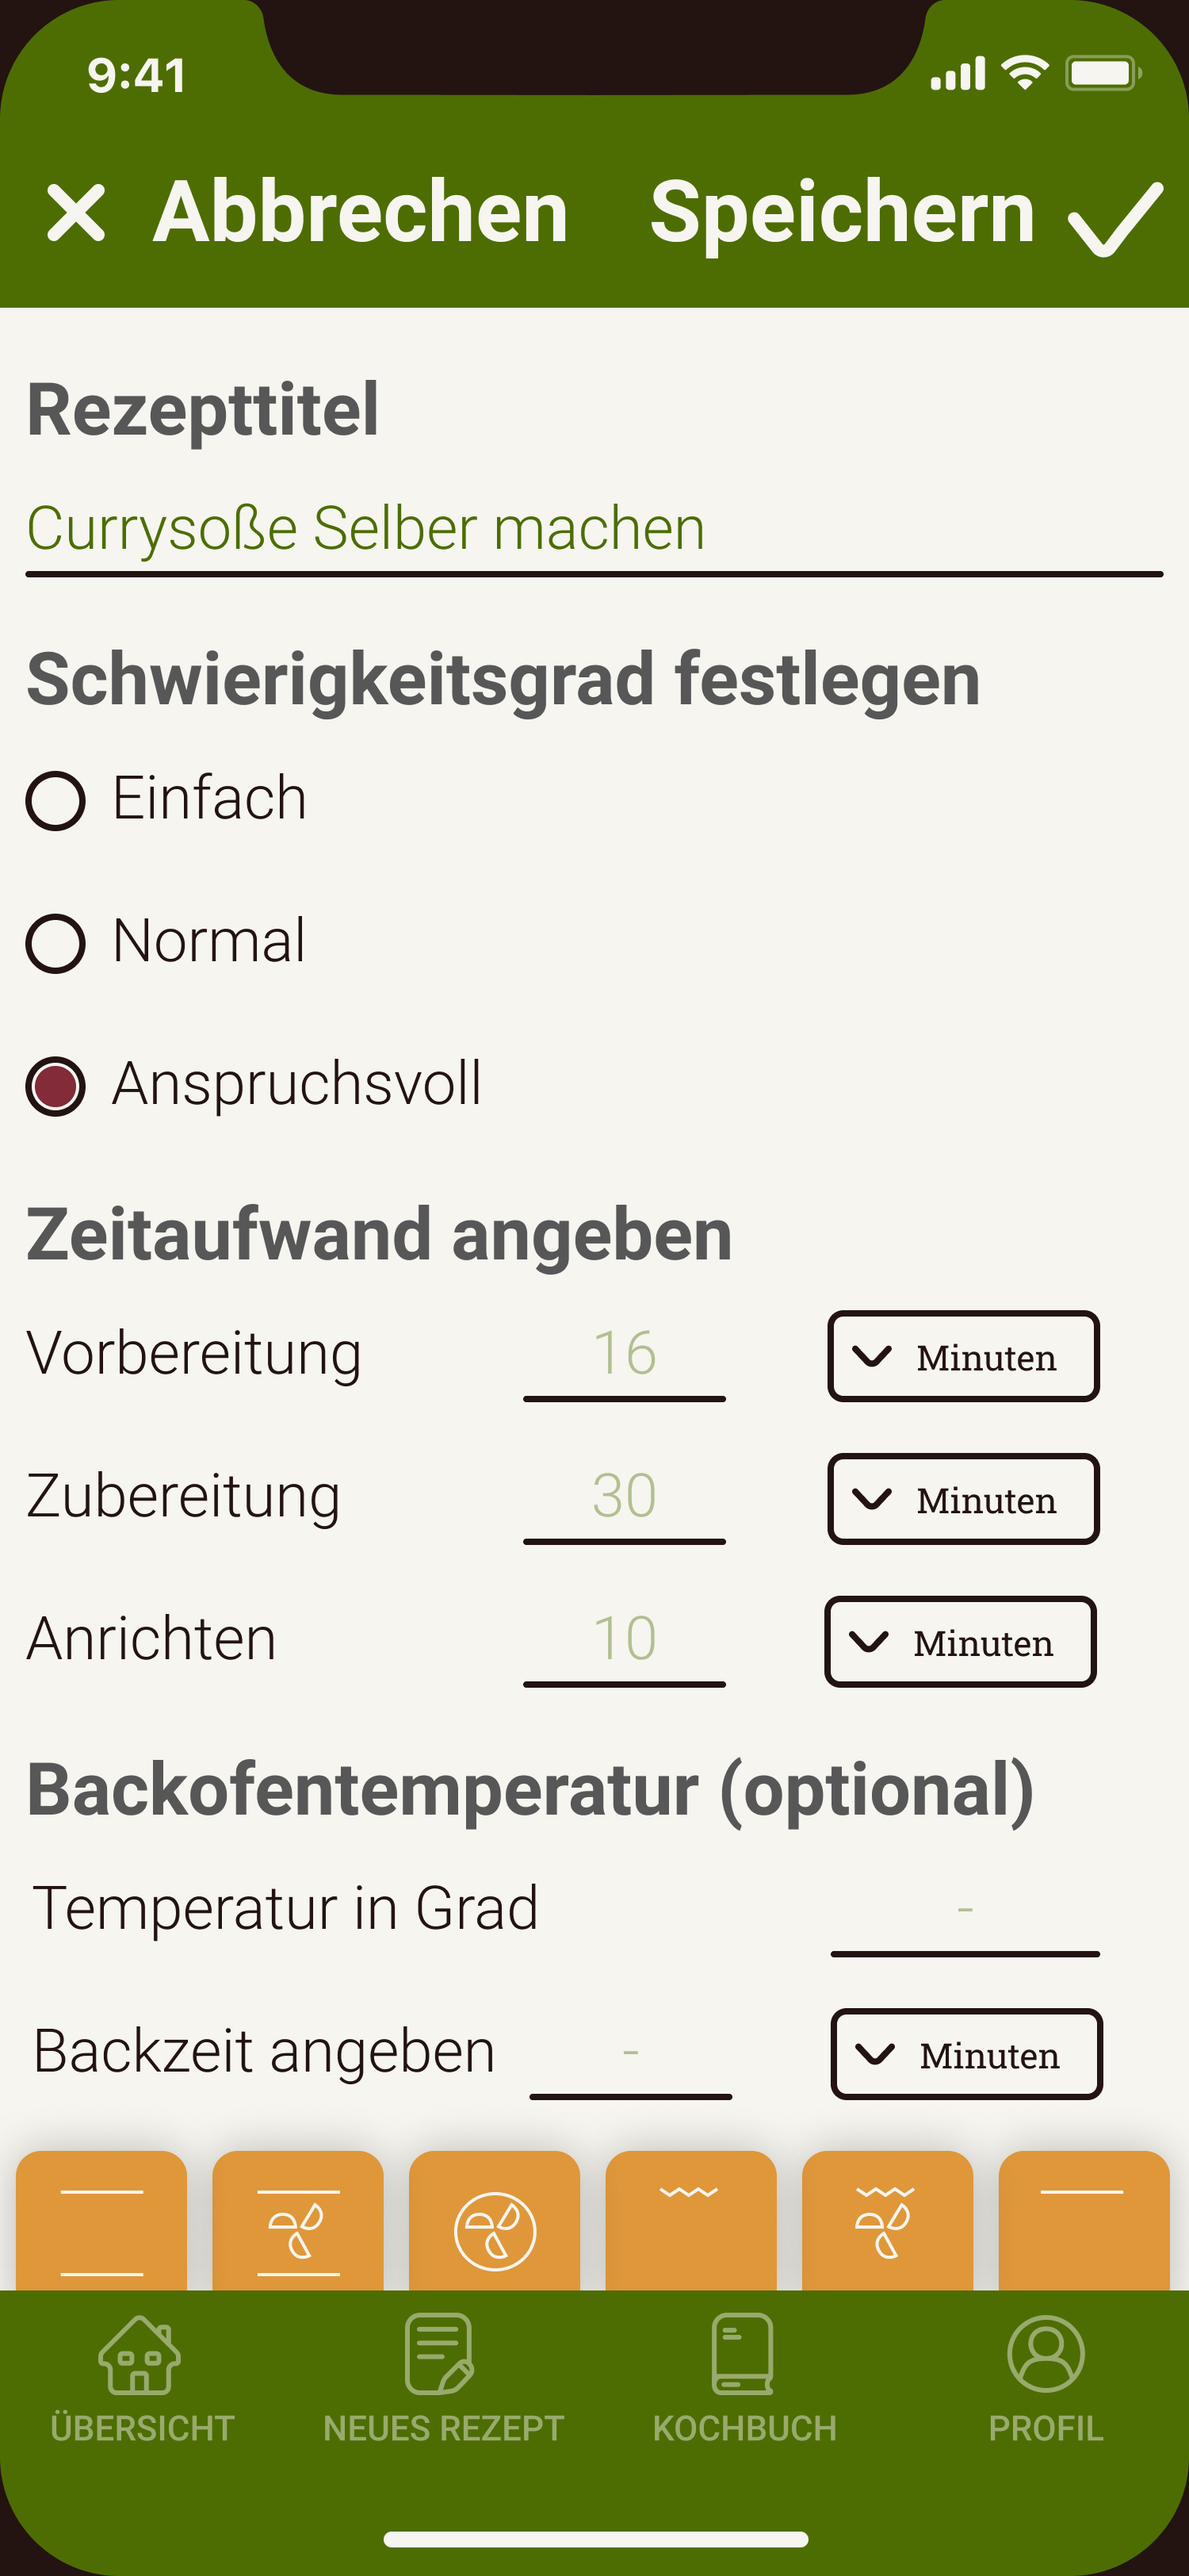
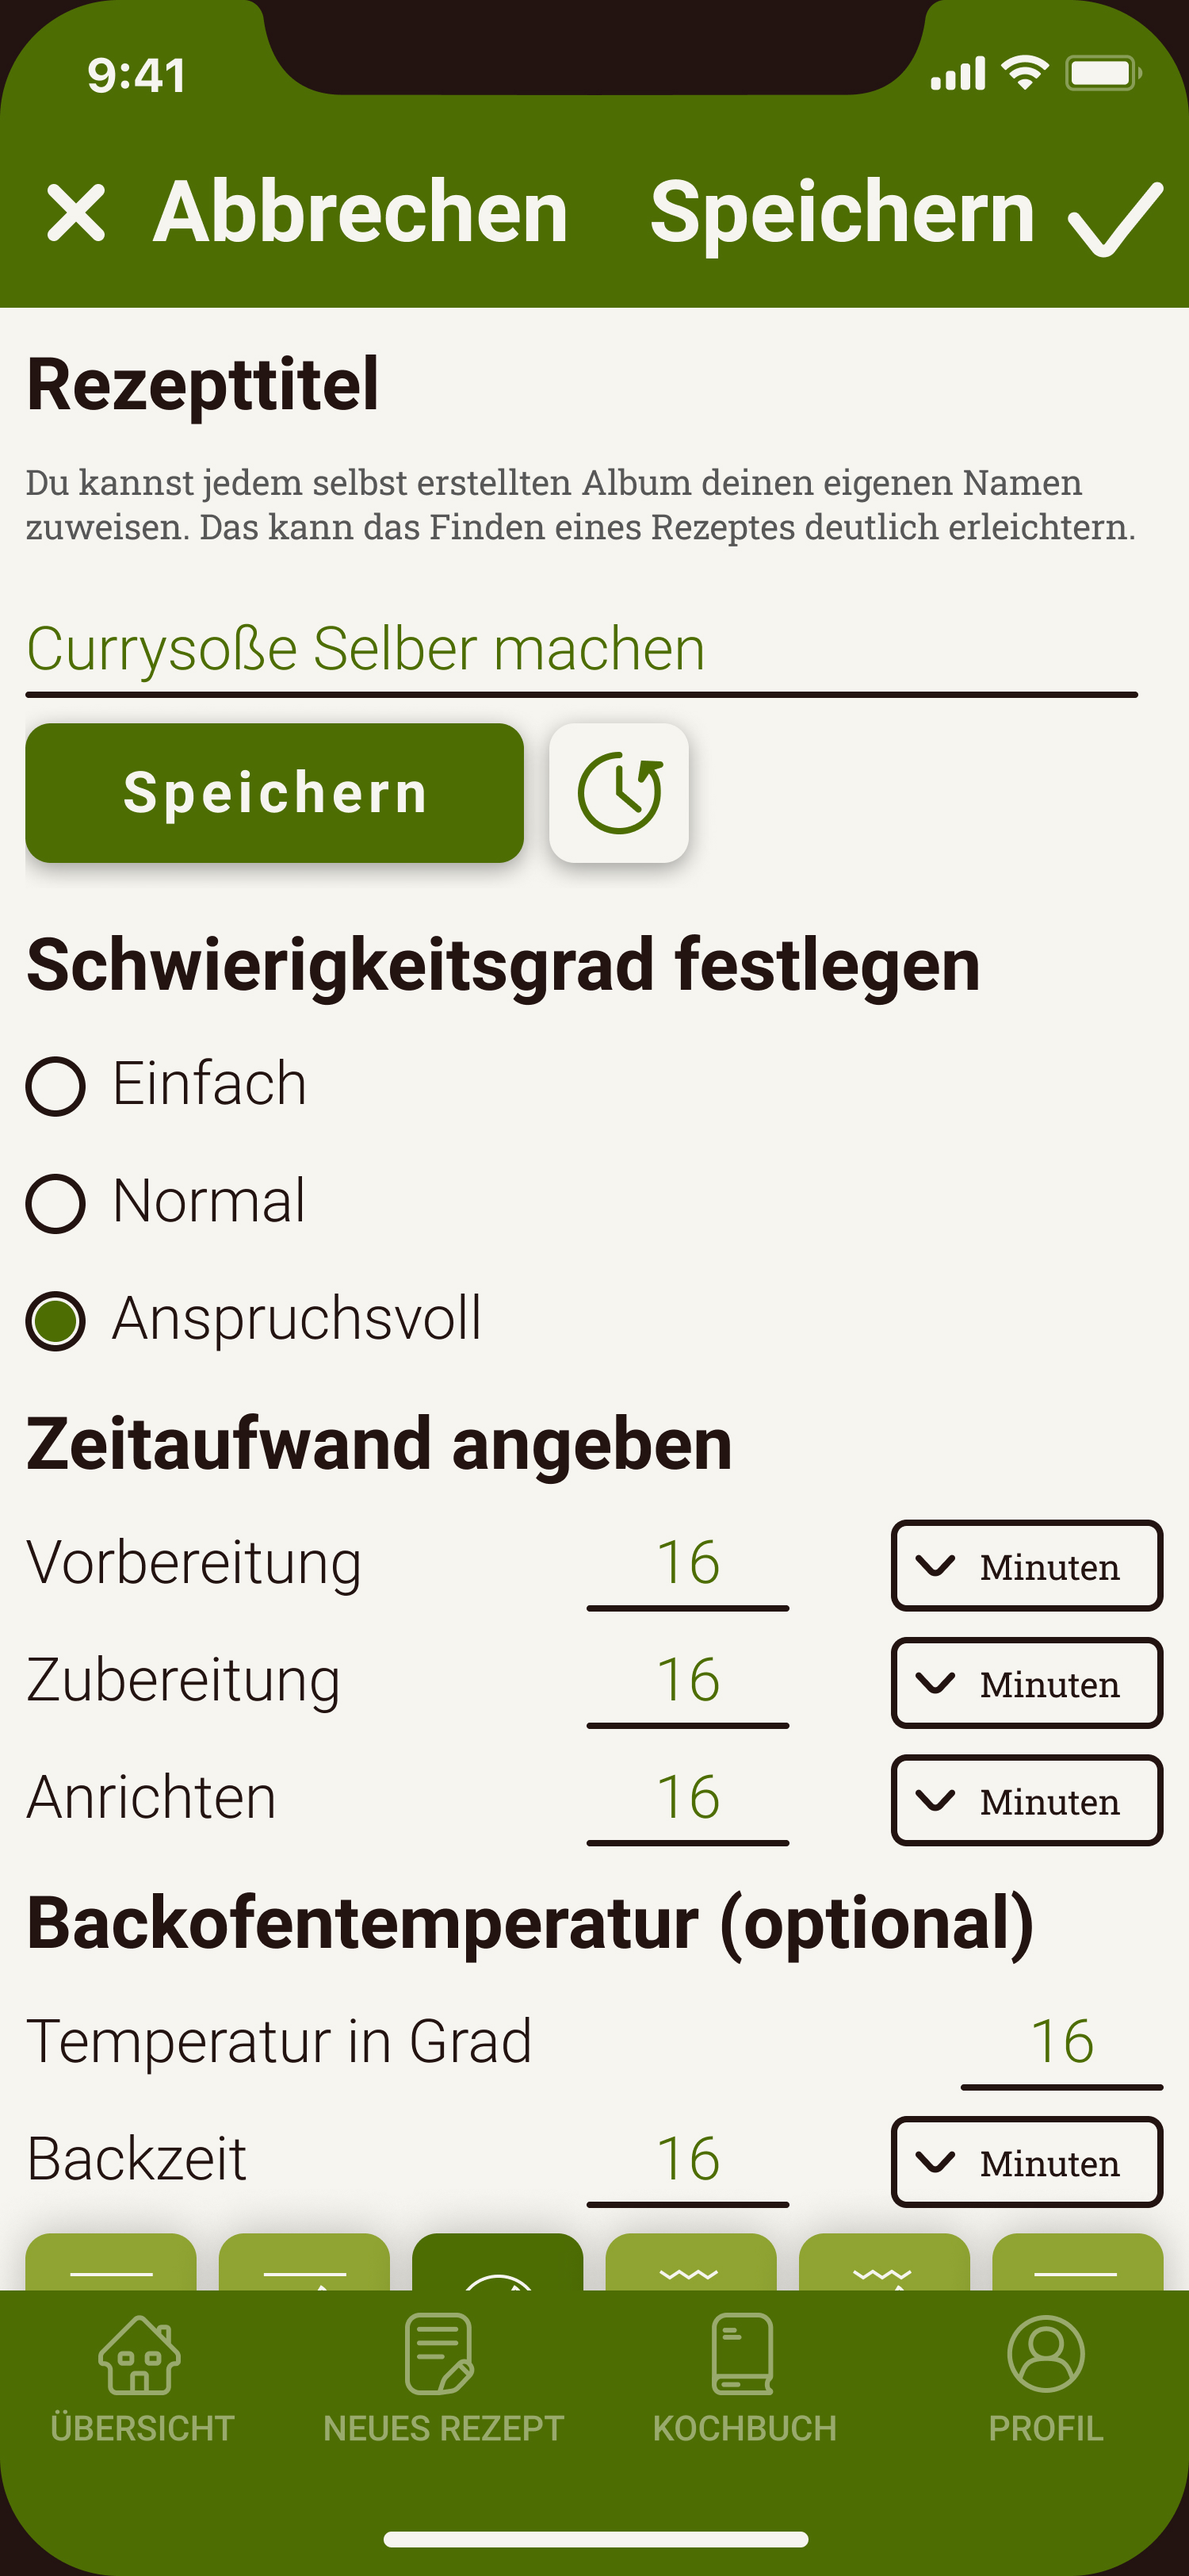
[FEATURE] Add tablet edit recipe and modify mobile versions

Changed region(s): [[0.0, 0.4664, 1.0, 0.9018], [0.0, 0.1244, 0.9507, 0.4353], [0.6747, 0.6219, 0.7053, 0.653]]

diff --git a/Artefakte/Zeiterfassung/Arbeitsmatrix.md b/Artefakte/Zeiterfassung/Arbeitsmatrix.md
@@ -153,10 +153,10 @@
 | 22       | Interface Design                    | MockUps                                           | [FEATURE]       | Tablet Mein Kochbuch                                             | 23.10.21        | 12.10.21            |                 | 2,50            |
 |          |                                     |                                                   |                 |                                                                  |                 |                     |                 |                 |
 | 22       | Interface Design                    | MockUps                                           | [FEATURE]       | Tablet Album und Kochbuch Einstellungen                          | 25.10.21        | 12.10.21            |                 | 2,50            |
+| 22       | Interface Design                    | MockUps                                           | [FEATURE]       | Tablet und Mobile Rezept bearbeiten                              | 30.10.21        | 12.10.21            |                 | 4,50            |
 |          |                                     |                                                   |                 |                                                                  |                 |                     |                 |                 |
 |          |                                     |                                                   |                 |                                                                  |                 |                     |                 |                 |
-|          |                                     |                                                   |                 |                                                                  |                 |                     |                 |                 |
-|          | Stunden insgesamt                   | 328,75                                            | Stunden Seminar | 55                                                               | Stunden Projekt | 273,75              |                 |                 |
-|          |                                     |                                                   | Budget:         | 80                                                               | Budget:         | 41,25               |                 |                 |
-|          | Kredits erreicht:                   | 11                                                |                 |                                                                  |                 |                     |                 |                 |
+|          | Stunden insgesamt                   | 333,25                                            | Stunden Seminar | 55                                                               | Stunden Projekt | 278,25              |                 |                 |
+|          |                                     |                                                   | Budget:         | 80                                                               | Budget:         | 36,75               |                 |                 |
+|          | Kredits erreicht:                   | 12                                                |                 |                                                                  |                 |                     |                 |                 |
 |          | Kredits erfordert:                  | 15                                                |
